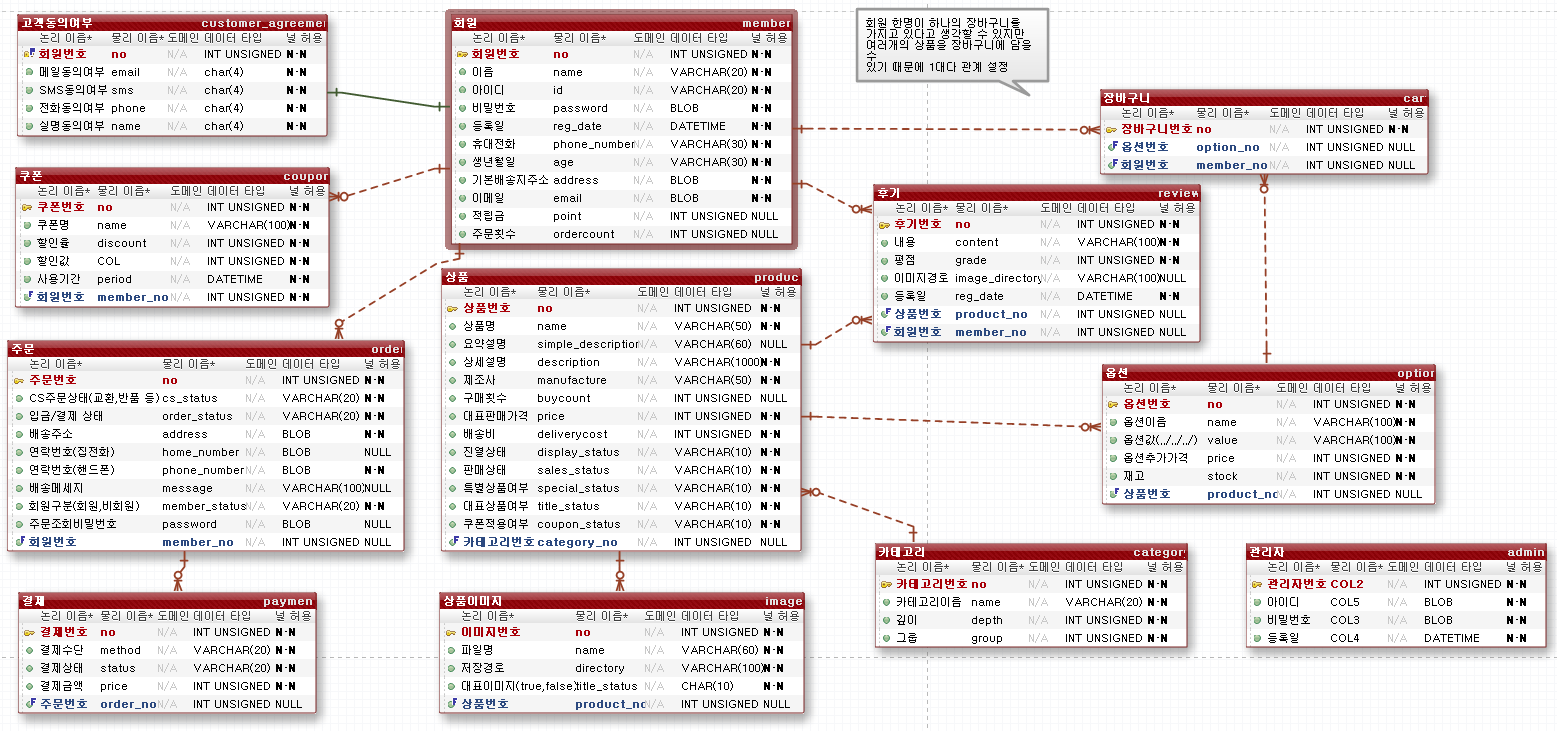
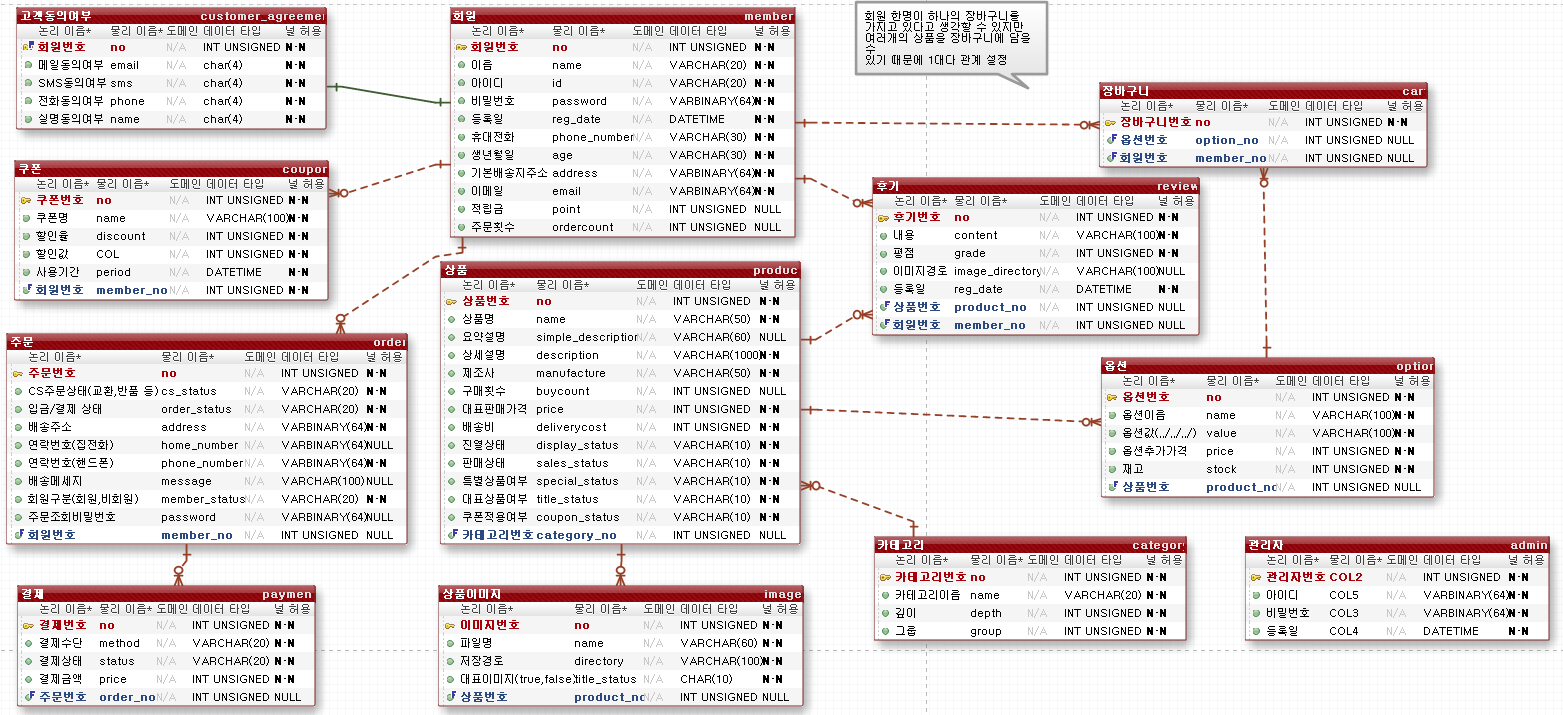
md파일 수정

Changed region(s): [[0.0, 0.0, 0.9249, 1.0], [0.5549, 0.7077, 1.0, 0.9231]]

diff --git a/Shoppingmall-usecase/usecasescenario.md b/Shoppingmall-usecase/usecasescenario.md
@@ -9,10 +9,10 @@
     - 비회원이 회원가입을 할 수 있다. 이때 회원의 주민등록번호 정보와 주소정보는 필수로 받지 않아도 된다.
 4. 기본흐름
     1. 비회원이 회원가입을 클릭한다.
-    2. 회원가입시 필요한 최소정보(이름,생년월일,전화번호)를 입력 하고 고객동의여부를 입력받는다.
-    3. 이때 주민등록번호와 주소정보는 필수로 받지 않아도 된다.
-    4. 가입 시 무료쿠폰을 발급한다.
-5. 예외흐름
+    1. 회원가입시 필요한 최소정보(이름,생년월일,전화번호)를 입력 하고 고객동의여부를 입력받는다.
+    1. 이때 주민등록번호와 주소정보는 필수로 받지 않아도 된다.
+    1. 가입 시 무료쿠폰을 발급한다.
+5. 예외흐름  
     `E1. 필요한 정보가 등록이 안되었을 경우`
       1. 가격이나 상품명등 필요한 정보가 기입이 안되었을 경우 경고창을 띄워준 뒤 누락된 옵션에 커서를 이동시킨다.
 
@@ -22,11 +22,11 @@
 
 ##### 카테고리등록 유스케이스 시나리오
 1. Usecase
-  - 카테고리등록
+    - 카테고리등록
 2. 행위자
-  - 관리자
+    - 관리자
 3. 설명
-  - 관리자가 카테고리를 추가/삭제 할 수 있다.
+    - 관리자가 카테고리를 추가/삭제 할 수 있다.
 4. 기본흐름
     1. 시스템이 최상위 카테고리 목록(카테고리명)을 관리자에게 보여준다.
     1. 관리자가 조회하고자 하는 카테고리를 선택한다.
@@ -34,7 +34,7 @@
     1. 상위 카테고리로 지정하고자 하는 카테고리를 선택한다.
     1. 등록하고자 하는 카테고리명을 입력하고 저장 기능을 실행한다.
     1. 등록한 카테고리가 포함된 카테고리 목록을 갱신하여 출력한다.
-5. 예외흐름
+5. 예외흐름  
     `E1. 등록하고자 하는 카테고리명이 이미 존재하는 경우`
       1. 카테고리명이 중복이 될 수 없으므로 메세지를 관리자에게 보여주고 다시 입력폼으로 돌아간다.
 
@@ -42,34 +42,35 @@
 
 ##### 상품등록 유스케이스 시나리오
 1. Usecase
-  - 상품등록
+    - 상품등록
 2. 행위자
-  - 관리자
+    - 관리자
 3. 설명
-  - 관리자는 판매할 상품의 정보를 등록/삭제 할 수 있다. 상품을 등록할 카테고리는 최하위 카테고리로 선택하여야 된다.
+    - 관리자는 판매할 상품의 정보를 등록/삭제 할 수 있다. 상품을 등록할 카테고리는 최하위 카테고리로 선택하여야 된다.
 4. 기본흐름
     1. 상품을 등록할 최하위 카테고리를 선택한다.
     1. 등록할 상품의 정보(상품명,가격,사진,설명,옵션 등)를 입력 후 등록 버튼을 누른다.
     1. 상품을 등록한 뒤, 등록이 완료되었다는 결과 창을 보여준다.
-5. 예외흐름
+5. 예외흐름  
     `E1. 필요한 정보가 등록이 안되었을 경우`  
-      - 가격이나 상품명등 필요한 정보가 기입이 안되었을 경우 경고창을 띄워준 뒤 누락된 옵션에 커서를 이동시킨다.
+      1. 가격이나 상품명등 필요한 정보가 기입이 안되었을 경우 경고창을 띄워준 뒤 누락된 옵션에 커서를 이동시킨다.
+
     `E2. 등록하려는 상품이 이미 존재하는 경우`
-      - 동일한 상품명이 존재 할 경우 경고창을 띄워준 뒤 상품명 옵션에 커서를 이동시킨다.
+      1. 동일한 상품명이 존재 할 경우 경고창을 띄워준 뒤 상품명 옵션에 커서를 이동시킨다.
 
 ---
 
 ##### 상품목록조회 유스케이스 시나리오
 1. Usecase
-  - 상품목록조회
+    - 상품목록조회
 2. 행위자
-  - 회원,비회원,관리자
+    - 회원,비회원,관리자
 3. 설명
-  - 사용자는 카테고리 안에 속하는 상품 목록을 조회할 수 있다.
+    - 사용자는 카테고리 안에 속하는 상품 목록을 조회할 수 있다.
 4. 기본흐름
     1. 카테고리 목록이 사용자에게 보여진다.
     1. 최하위 카테고리가 선택이 되면 그 카테고리에 포함된 상품을 보여준다.
-5. 예외흐름
+5. 예외흐름  
     `E1. 최하위 카테고리에 속한 상품이 없을 경우`
       1. 사용자에게 속한 상품이 없다는 정보를 view에 보여준다.
 
@@ -77,11 +78,11 @@
 
 ##### 상품상세정보조회 유스케이스 시나리오
 1. Usecase
-  - 상품상세정보조회
+    - 상품상세정보조회
 2. 행위자
-  - 회원,비회원,관리자
+    - 회원,비회원,관리자
 3. 설명
-  - 사용자는 상품목록 조회중에 원하는 상품의 상세 정보를 조회 할 수 있다.
+    - 사용자는 상품목록 조회중에 원하는 상품의 상세 정보를 조회 할 수 있다.
 4. 기본흐름
     1. 상품목록 조회중 원하는 상품을 선택하여 클릭한다.
     1. 선택된 상품의 상세정보(상품명, 상품사진, 상품설명, 가격, 등록일자)를 보여준다.
@@ -91,17 +92,17 @@
 
 ##### 상품후기 유스케이스 시나리오
 1. Usecase
-  - 상품후기
+    - 상품후기
 2. 행위자
-  - 회원,비회원
+    - 회원,비회원
 3. 설명
-  - 사용자는 자신이 구매한 상품의 후기를 작성할 수 있다.
+    - 사용자는 자신이 구매한 상품의 후기를 작성할 수 있다.
 4. 기본흐름
     1. 자신이 구매한 상품 중 후기를 남기고 싶은 상품을 클릭한다.
     1. 상품상세정보 아래에 있는 후기 텍스트박스에 정보(사진(null가능),후기,평점)를 등록한다.
       2-1. 등록과 함께 자신이 구매한 상품의 옵션정보를 넘긴다.
 5. 예외흐름
-    `E1. 자신이 구매하지 않은 상품에 후기를 남길 경우`
+    `E1. 자신이 구매하지 않은 상품에 후기를 남길 경우`  
       1. 사용자에게 후기를 남길 수 없다는 메세지와 함께 상세정보로 다시 되돌아간다.
 
 
@@ -109,26 +110,26 @@
 
 ##### 장바구니상품담기 유스케이스 시나리오
 1. Usecase
-  - 장바구니상품담기
+    - 장바구니상품담기
 2. 행위자
-  - 회원,비회원
+    - 회원,비회원
 3. 설명
-  - 사용자는 상품상세정보 조회 중 원하는 상품을 장바구니에 담을 수 있다.
+    - 사용자는 상품상세정보 조회 중 원하는 상품을 장바구니에 담을 수 있다.
 4. 기본흐름
     1. 상품의 상세정보 조회 후, 원하는 옵션과 수량을 입력하고 장바구니 담기를 한다.
 5. 예외흐름
-    `E1. 수량이 0일 경우`
+    `E1. 수량이 0일 경우`  
       - 구매 할 수 있는 수량이 0일 수 없다는 메세지를 보여주고, 해당 텍스트 박스에 커서를 이동시킨다.
 
 ---
 
 ##### 장바구니상품삭제 유스케이스 시나리오
 1. Usecase
-  - 장바구니상품삭제
+    - 장바구니상품삭제
 2. 행위자
-  - 회원,비회원
+    - 회원,비회원
 3. 설명
-  - 사용자는 자신의 장바구니 조회 중 원하지 않는 상품을 장바구니에서 삭제할 수 있다.
+    - 사용자는 자신의 장바구니 조회 중 원하지 않는 상품을 장바구니에서 삭제할 수 있다.
 4. 기본흐름
     1. 장바구니목록 조회 중 원하지 않는 상품들을 체크 후 삭제 시킨다.
 
@@ -136,11 +137,11 @@
 
 ##### 상품주문 유스케이스 시나리오
 1. Usecase
-  - 상품주문
+    - 상품주문
 2. 행위자
-  - 회원,비회원
+    - 회원,비회원
 3. 설명
-  - 사용자는 장바구니에 상품을 담은 후 주문한다. 장바구니에 담긴 상품들의 목록 중에서 주문하고자 하는 상품을 선택한 후 주문서를 작성한다.
+    - 사용자는 장바구니에 상품을 담은 후 주문한다. 장바구니에 담긴 상품들의 목록 중에서 주문하고자 하는 상품을 선택한 후 주문서를 작성한다.
 4. 기본흐름
     1. 장바구니에 담긴 상품 목록에서 주문하고자 하는 상품들을 선택하고, '주문하기' 기능을 실행한다.
     1. 사용자의 장바구니에서 각 상품의 목록과 주문총액을 보여주고, 주문정보를 입력 받기 위한 화면이 나타난다.
@@ -150,6 +151,7 @@
 5. 예외흐름
     `E1. 장바구니에서 상품을 선택하지 않고 '주문하기' 기능을 요청한 경우`
       1. 선택한 상품이 없다는 메세지를 출력한다.
+
     `E2. 입력되지 않은 필수입력주문정보가 있는 상태로 '주문' 한 경우`  
       1. 입력하지 않은 주문정보가 있다는 메세지를 출력하고 해당 필드로 커서를 이동한다.
 
@@ -158,11 +160,11 @@
 
 ##### 주문내역확인하기 유스케이스 시나리오
 1. Usecase
-  - 주문내역확인하기
+    - 주문내역확인하기
 2. 행위자
-  - 회원,비회원
+    - 회원,비회원
 3. 설명
-  - 사용자는 자신이 주문한 내역을 확인할 수 있다.비회원의 경우 비회원 status와 주문조회 비밀번호로 확인한다.
+    - 사용자는 자신이 주문한 내역을 확인할 수 있다.비회원의 경우 비회원 status와 주문조회 비밀번호로 확인한다.
 4. 기본흐름
     1. 전체메뉴에서 주문내역확인하기를 조회한다.
     1. 사용자의 주문내역(주문번호,결제상태,배송지주소 등)을 보여준다.

diff --git a/Shoppingmall-exerd/exerd.md b/Shoppingmall-exerd/exerd.md
@@ -6,8 +6,9 @@
 
 ---
 ##### 개인정보 암호화
-* 설명
-	* 
+* 설명  
+	* 처리 성능이 높지않은 Blob 데이터 타입보다 VARBINARY 타입으로 암호화 데이터타입을 결정하였다.  
+	* SHA256의 단방향방식과 AES256의 양방향방식을 선택하였다.
 * 암호화가 필요한 컬럼  
 	- 주문 테이블 -> 배송주소,연락번호,주문조회비밀번호  
 	- 회원 테이블 -> 비밀번호,기본배송지주소,이메일  
@@ -15,5 +16,11 @@
 
 * 단방향 암호화
 	-SHA256을 사용하며 이 암호화 방식의 경우 암호화만 제공하고 다시 복호화 할 필요가 없기 때문에 비밀번호나 해당 해쉬함수 값이 일치한지만 알면 되는 컬럼에 사용.
+
 * 양방향 암호화
+	-AES256을 사용하여 개인정보이긴 하나, 사용자에게 다시 보여줘야 할 상황이 있는 경우의 컬럼에 사용
+	(배송주소,연락번호,기본배송지주소,이메일)
+
+* 추후 적용 후 성능이 나은 방법으로 도입
+
 

diff --git a/README.md b/README.md
@@ -8,5 +8,4 @@
 
 1. usecase diagram 만들기 [usecase diagram 바로가기](https://github.com/2BSJ/Cafe24-assignment1/blob/master/Shoppingmall-usecase/usecasediagram.md)
 1. usecase 사용자 시나리오 만들기 [usecase scenario 바로가기](https://github.com/2BSJ/Cafe24-assignment1/blob/master/Shoppingmall-usecase/usecasescenario.md)
-1. erd 설계하기 [erd 바로가기](https://github.com/2BSJ/Cafe24-assignment1/blob/master/Shoppingmall-exerd/exerd.md)
-1. 데이터베이스 암호화 방식 [링크]()    
+1. erd 설계 및 암호화 방식 설계하기 [erd 바로가기](https://github.com/2BSJ/Cafe24-assignment1/blob/master/Shoppingmall-exerd/exerd.md)
